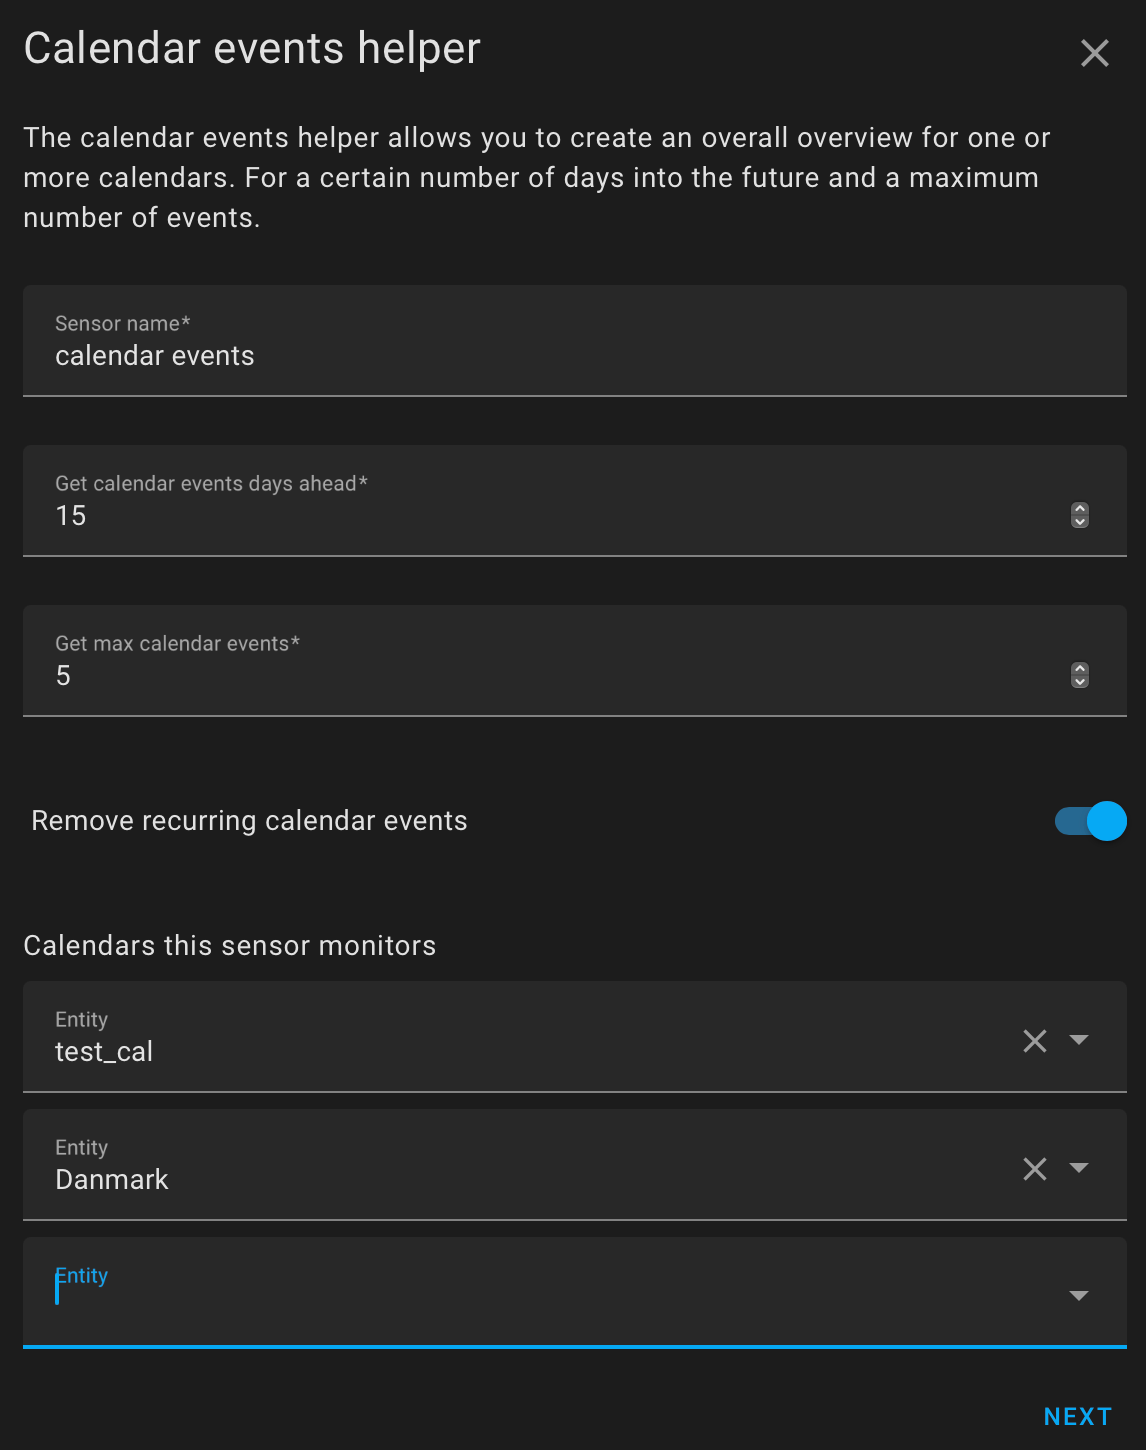
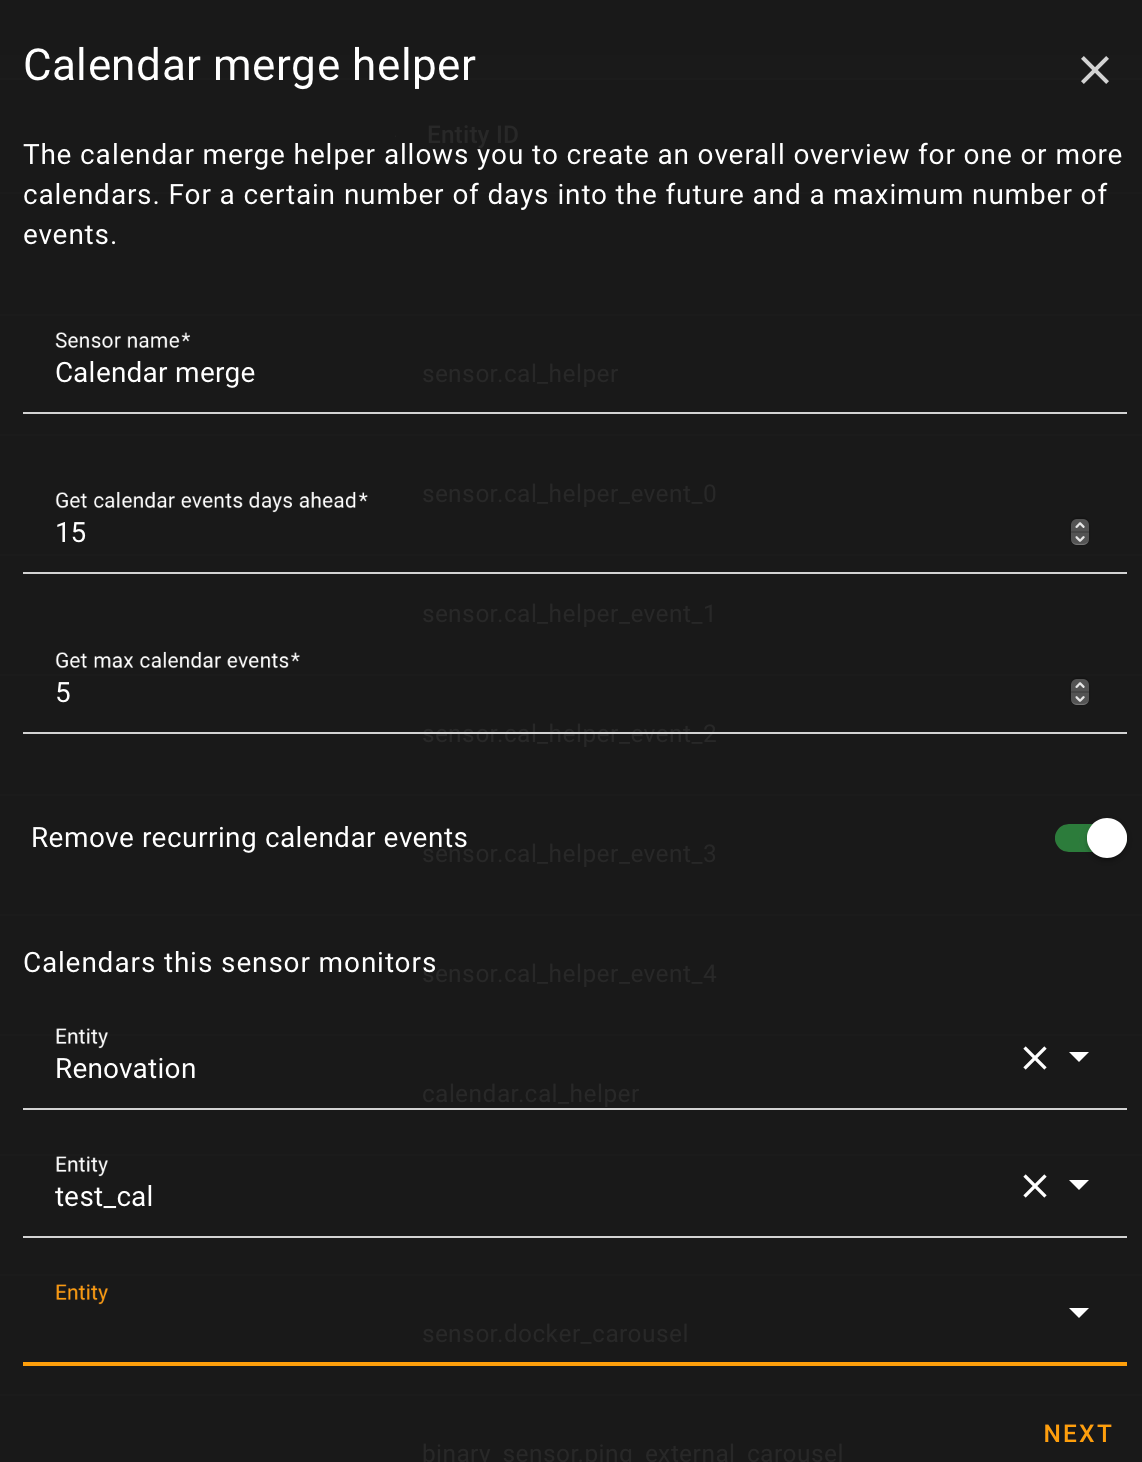
Updated readme.md

diff --git a/custom_components/calendar_merge/sensor.py b/custom_components/calendar_merge/sensor.py
@@ -130,7 +130,7 @@ class CalendarMergeSensor(SensorEntity, BaseCalendarMergeSensor):
         ]
 
         self.coordinator.update_method = self.async_refresh
-        self.coordinator.update_interval = timedelta(minutes=1)
+        self.coordinator.update_interval = timedelta(minutes=5)
 
         self.platform: EntityPlatform = entity_platform.async_get_current_platform()
 

diff --git a/custom_components/calendar_merge/config_flow.py b/custom_components/calendar_merge/config_flow.py
@@ -187,6 +187,7 @@ class ConfigFlowHandler(SchemaConfigFlowHandler, domain=DOMAIN):
     config_flow = CONFIG_FLOW
     options_flow = OPTIONS_FLOW
 
+    # ------------------------------------------------------------------
     def async_config_entry_title(self, options: Mapping[str, Any]) -> str:
         """Return config entry title."""
 

diff --git a/custom_components/calendar_merge/calendar_handler.py b/custom_components/calendar_merge/calendar_handler.py
@@ -1,4 +1,4 @@
-"""Calendar handler helper."""
+"""Calendar handler."""
 
 from __future__ import annotations
 

diff --git a/readme.md b/readme.md
@@ -8,8 +8,9 @@
 
 The calendar merge helper allows you to create an overall overview for one or more calendars. For a certain number of days into the future and a maximum number of events.
 
-There will be created a main sensor with the number of calendar events. And attributes with events formatted and raw to create the markdown text.
+There will be created a calendar with the merged calendar events and a main sensor with the number of calendar events. And attributes with events formatted and raw to create the markdown text or used a template.
 And for each event there will be created a sensor with a postfix _event_0 to _event_x with the summary and the event date.
+Please note that changes to the monitored calendars first will be reflected in the Calendar merge helper within a couple of minutes.
 
 For installation instructions until the Calendar merge helper is part of HACS, [see this guide](https://hacs.xyz/docs/faq/custom_repositories).
 Or click
